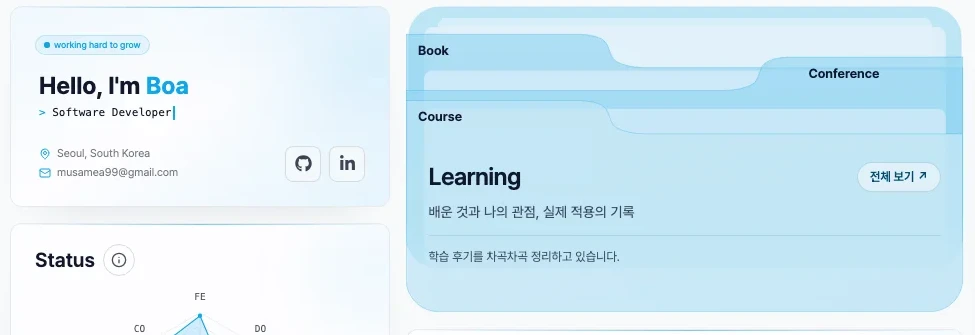
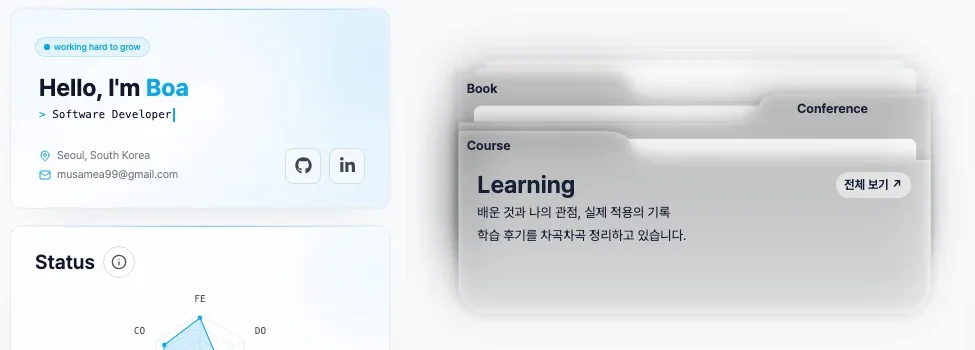
fix: preserve the original Learning folder SVG

diff --git a/src/app/(layout)/(shell)/resume/_components/cards/LearningShelfPreview.tsx b/src/app/(layout)/(shell)/resume/_components/cards/LearningShelfPreview.tsx
@@ -14,22 +14,27 @@ export default function LearningShelfPreview({ entries, className, animationDela
   return (
     <ResumeCard padded={false} accent={false} className={`${styles.folderCard} ${className ?? ""}`} animationDelay={animationDelay}>
       <section aria-label="최근 학습 후기" className={styles.folderStack}>
-        <LearningFolderArt className={styles.folderArt} aria-hidden="true" focusable="false" data-learning-folder-art />
-        <FolderIndex type="book" />
-        <FolderIndex type="conference" />
-        <FolderIndex type="course" />
-        <div className={styles.folderBody}>
-          <div className="flex flex-wrap items-center justify-between gap-2">
-            <h2 className="text-2xl font-semibold tracking-tight">Learning</h2>
-            <Link href="/learning" className="rounded-full border border-sky-700/20 bg-background/55 px-3 py-1.5 text-xs font-semibold whitespace-nowrap text-sky-900 transition-colors hover:bg-background focus-visible:outline-2 focus-visible:outline-blue dark:border-sky-300/25 dark:text-sky-100">전체 보기 ↗</Link>
-          </div>
-          <p className="mt-2 text-sm leading-relaxed text-foreground/75">배운 것과 나의 관점, 실제 적용의 기록</p>
-          <div className="mt-3 space-y-2">
-            {entries.length ? entries.map((entry) => <LearningCard key={entry.slug} entry={entry} compact />) : (
-              <p className="border-t border-sky-700/15 pt-3 text-xs leading-relaxed text-foreground/70 dark:border-sky-300/20">학습 후기를 차곡차곡 정리하고 있습니다.</p>
-            )}
+        <div className={styles.folderVisual}>
+          <LearningFolderArt viewBox="0 0 624 380" className={styles.folderArt} aria-hidden="true" focusable="false" data-learning-folder-art />
+          <div className={styles.folderTrack}>
+            <FolderIndex type="book" />
+            <FolderIndex type="conference" />
+            <FolderIndex type="course" />
+            <div className={styles.folderBody}>
+              <div className="flex items-center justify-between gap-2">
+                <h2 className={styles.folderTitle}>Learning</h2>
+                <Link href="/learning" className={styles.folderBrowse}>전체 보기 ↗</Link>
+              </div>
+              <p className={styles.folderDescription}>배운 것과 나의 관점, 실제 적용의 기록</p>
+              {!entries.length && <p className={styles.folderDescription}>학습 후기를 차곡차곡 정리하고 있습니다.</p>}
+            </div>
           </div>
         </div>
+        {entries.length > 0 && (
+          <div className="space-y-2 px-3 pb-3">
+            {entries.map((entry) => <LearningCard key={entry.slug} entry={entry} compact />)}
+          </div>
+        )}
       </section>
     </ResumeCard>
   );

diff --git a/src/app/(layout)/(shell)/resume/_components/cards/ResumeCollections.module.css b/src/app/(layout)/(shell)/resume/_components/cards/ResumeCollections.module.css
@@ -6,23 +6,25 @@
 }
 
 .folderStack {
-  --learning-folder-back: color-mix(in srgb, var(--color-blue) 43%, var(--color-background));
-  --learning-folder-paper: color-mix(in srgb, var(--color-blue) 8%, var(--color-background));
-  --learning-folder-front: color-mix(in srgb, var(--color-blue) 23%, var(--color-background));
-  --learning-folder-edge: color-mix(in srgb, var(--color-blue) 28%, transparent);
+  container-type: inline-size;
+}
+
+.folderVisual {
   position: relative;
-  isolation: isolate;
-  display: grid;
-  min-height: 100%;
-  grid-template-rows: minmax(5.25rem, 43fr) minmax(auto, 57fr);
 }
 
 .folderArt {
-  position: absolute;
-  inset: 0;
+  display: block;
   width: 100%;
-  height: 100%;
+  height: auto;
   pointer-events: none;
+}
+
+.folderTrack {
+  position: absolute;
+  inset-block: 0;
+  inset-inline: 9.48% 5.91%;
+  color: #172033;
 }
 
 .folderIndex {
@@ -31,26 +33,26 @@
   inset-inline-start: 0;
   display: flex;
   width: 30%;
-  height: 10.8%;
+  height: 8.5%;
   min-height: 1.3rem;
   align-items: center;
-  padding-inline: 0.75rem;
-  font-size: 0.8125rem;
+  padding-inline: clamp(0.35rem, 1.4cqw, 0.75rem);
+  font-size: clamp(0.6875rem, 2.4cqw, 0.8125rem);
   font-weight: 650;
 }
 
-/* The tab tops are relative to the artwork's cropped viewBox. */
+/* The HTML hit areas follow the tabs in the original 624 × 380 artwork. */
 .folderIndex[data-type="book"] {
-  top: 9.22%;
+  top: 19.58%;
 }
 
 .folderIndex[data-type="conference"] {
-  top: 16.63%;
+  top: 25.37%;
   inset-inline: auto 0;
 }
 
 .folderIndex[data-type="course"] {
-  top: 30.77%;
+  top: 36.42%;
 }
 
 .folderIndex:hover {
@@ -64,10 +66,42 @@
 }
 
 .folderBody {
-  position: relative;
-  grid-row: 2;
+  position: absolute;
+  top: 45%;
+  inset-inline: 0;
   min-width: 0;
-  padding: clamp(1rem, 2vw, 1.4rem);
+  padding: clamp(0.4rem, 1.65cqw, 1rem) clamp(0.65rem, 3.3cqw, 1.5rem);
+}
+
+.folderTitle {
+  font-size: clamp(1rem, 4.3cqw, 1.5rem);
+  font-weight: 650;
+  line-height: 1.25;
+}
+
+.folderDescription {
+  margin-top: clamp(0.15rem, 0.8cqw, 0.4rem);
+  font-size: clamp(0.625rem, 2.35cqw, 0.875rem);
+  line-height: 1.4;
+}
+
+.folderBrowse {
+  border: 1px solid #17203324;
+  border-radius: 999px;
+  background: #ffffff80;
+  padding: 0.25rem 0.55rem;
+  font-size: clamp(0.625rem, 2.2cqw, 0.75rem);
+  font-weight: 650;
+  white-space: nowrap;
+}
+
+.folderBrowse:hover {
+  background: #ffffffcf;
+}
+
+.folderBrowse:focus-visible {
+  outline: 2px solid currentColor;
+  outline-offset: 2px;
 }
 
 .recordLink {

diff --git a/e2e/learning.spec.ts b/e2e/learning.spec.ts
@@ -37,7 +37,16 @@ test("Resume links to archive while unpublished Learning remains inaccessible", 
 test("the Resume folder indexes link to their Learning categories", async ({ page }, testInfo) => {
   await page.goto("/resume");
   const folder = page.getByRole("region", { name: "최근 학습 후기" });
-  await expect(folder.locator("svg[data-learning-folder-art]")).toBeVisible();
+  const art = folder.locator("svg[data-learning-folder-art]");
+  await expect(art).toBeVisible();
+  await expect(art).toHaveAttribute("viewBox", "0 0 624 380");
+  await expect(art.locator("foreignObject")).toHaveCount(5);
+  await expect(art.locator("filter")).toHaveCount(4);
+  const ratio = await art.evaluate((svg) => {
+    const box = svg.getBoundingClientRect();
+    return box.width / box.height;
+  });
+  expect(ratio).toBeCloseTo(624 / 380, 2);
   for (const [name, type, edge] of [
     ["Book", "book", "left"],
     ["Conference", "conference", "right"],
